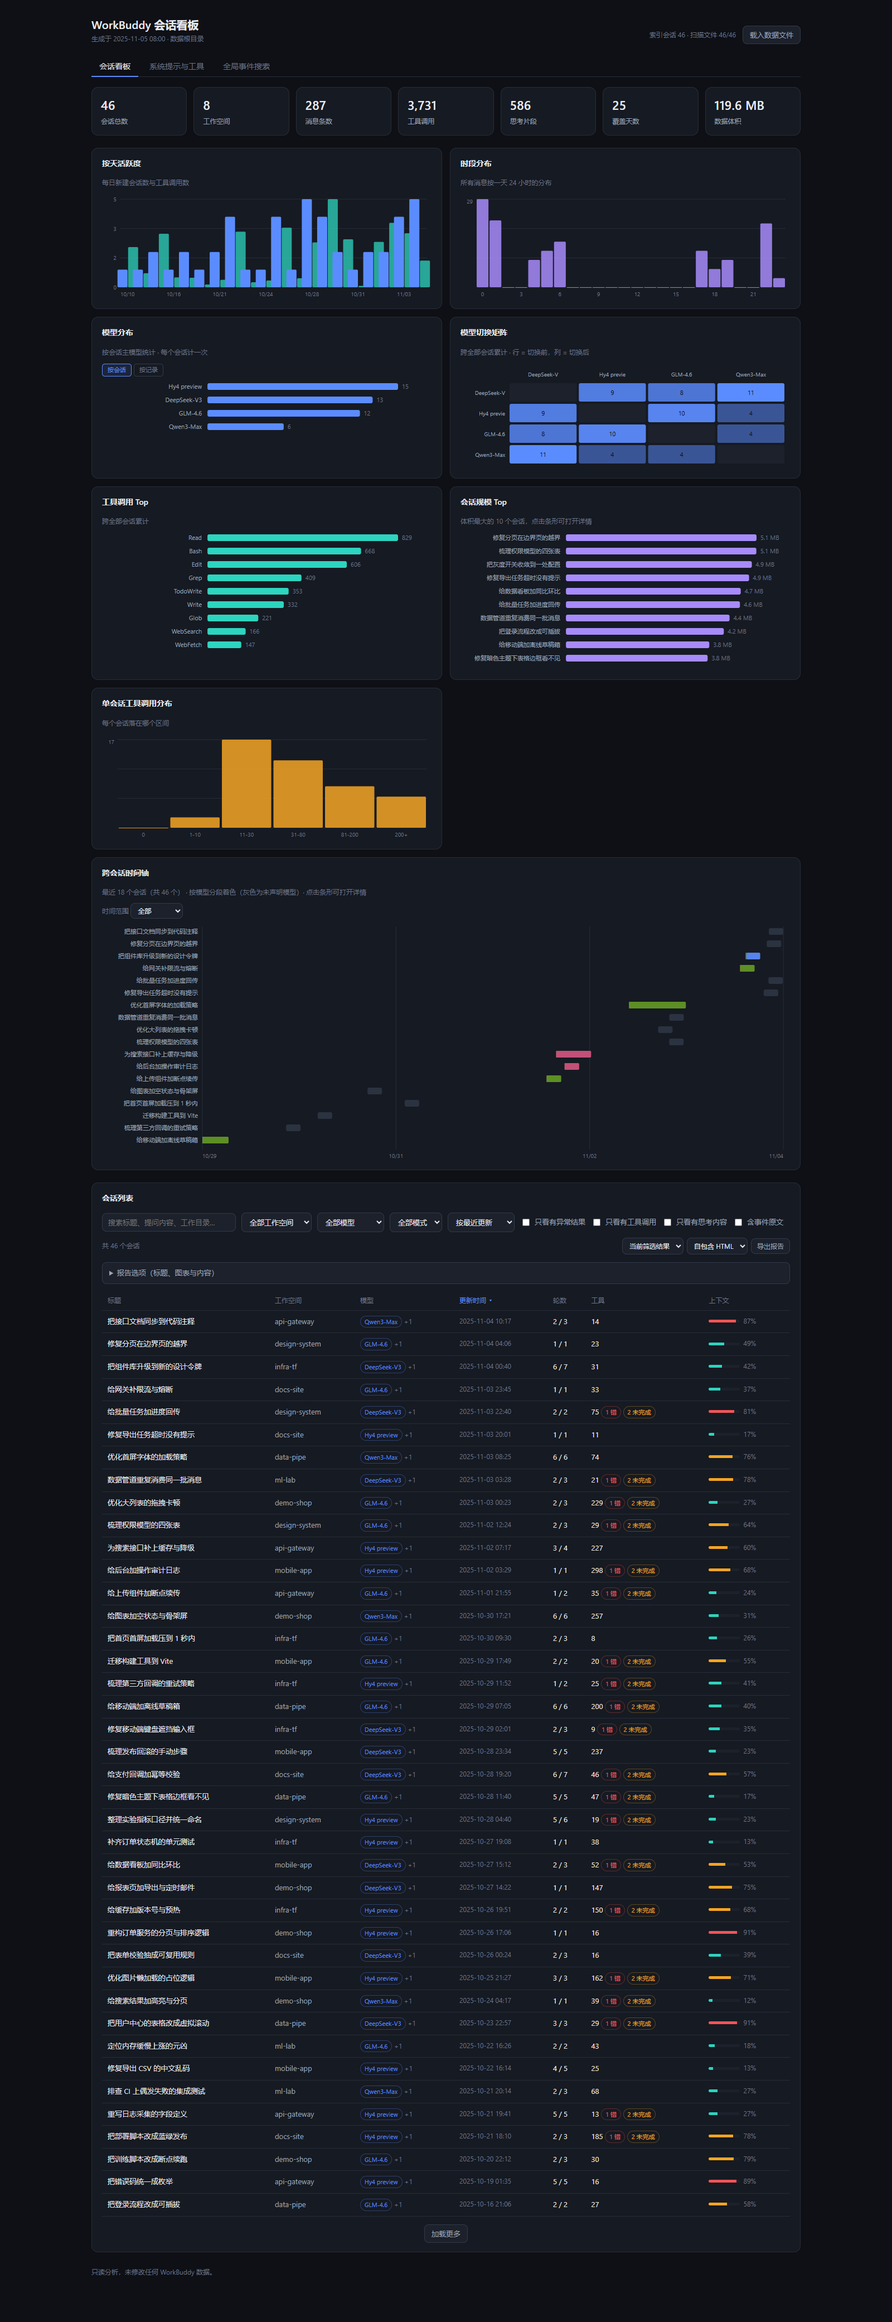
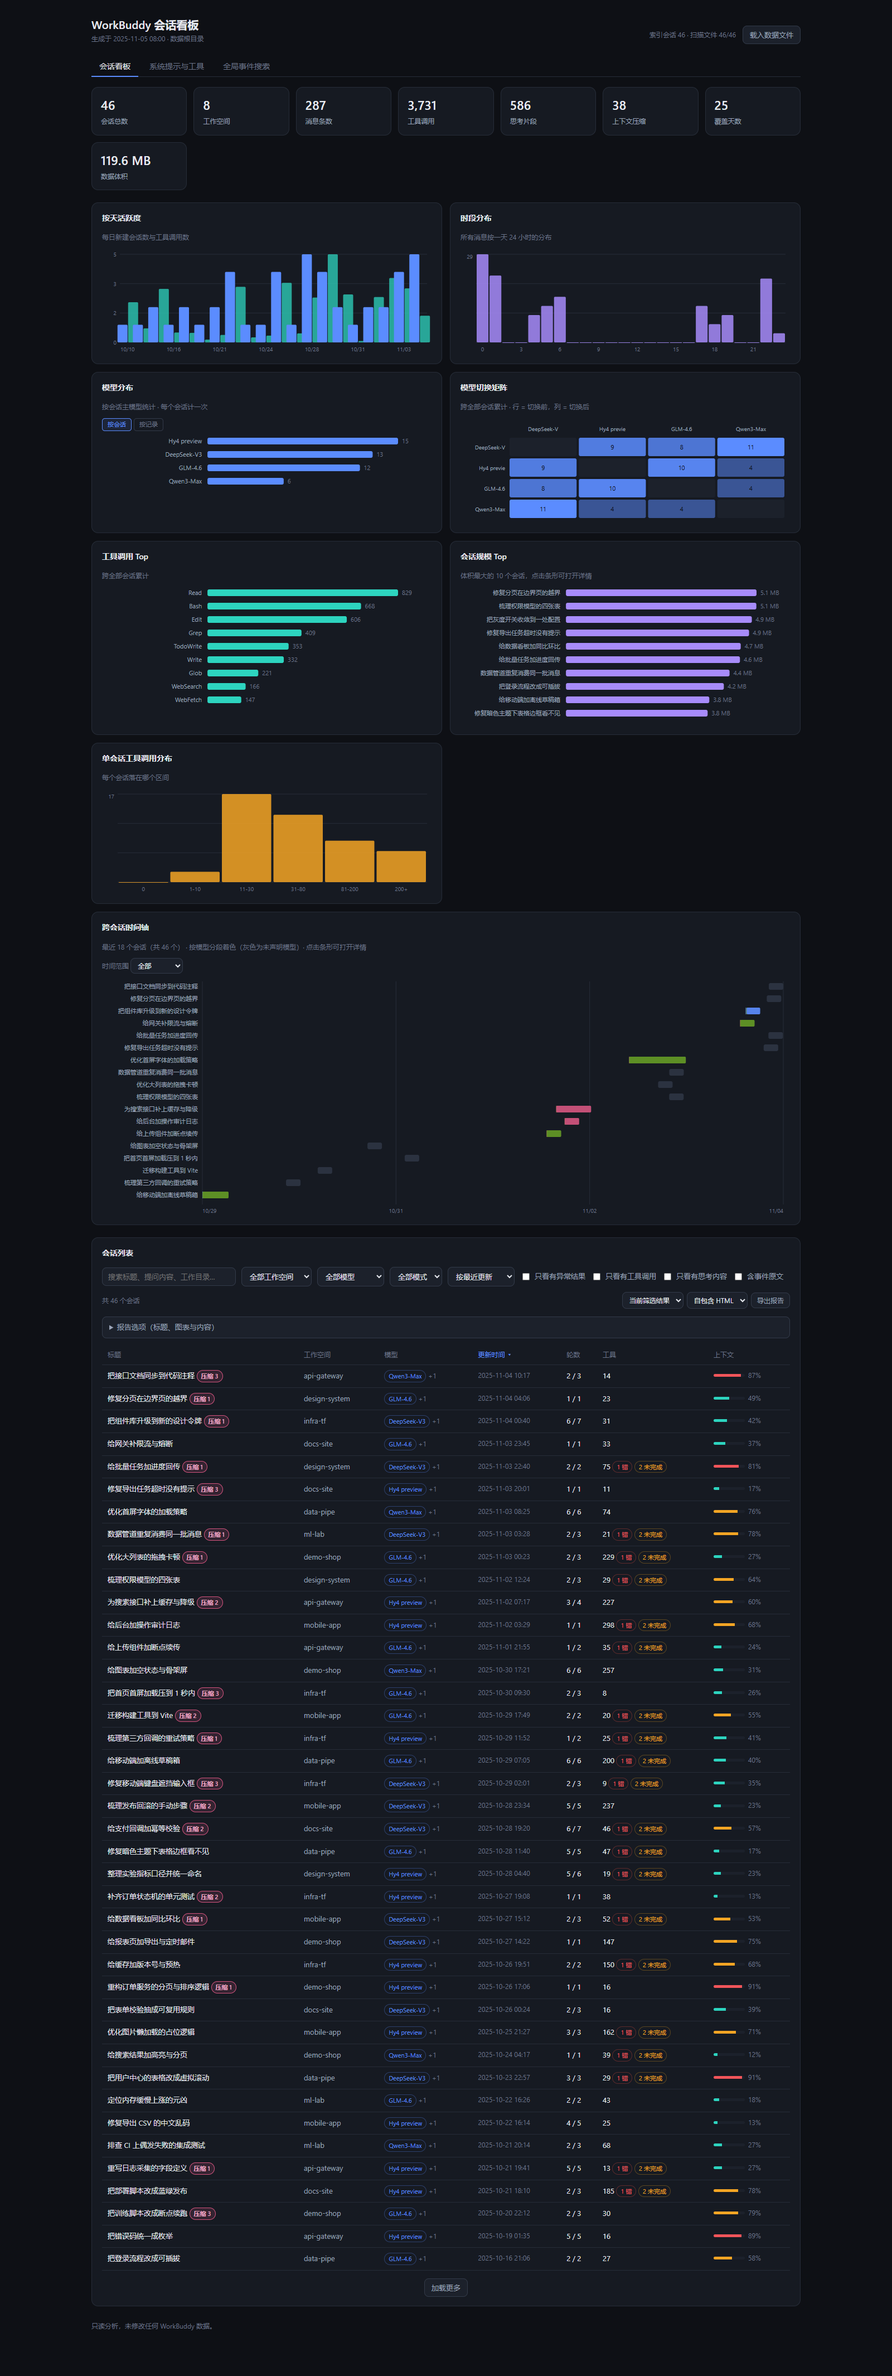
Ship context compaction highlighting
Rebuild index.html, document the compaction markers and the new KPI, update verification counts to 128 checks per engine, and refresh five screenshots plus a new dedicated compaction screenshot.

diff --git a/index.html b/index.html
@@ -139,6 +139,10 @@
   .tab.on{color:var(--txt);border-bottom-color:var(--blue)}
   /* event kind chips */
   .kinds{display:flex;flex-wrap:wrap;gap:6px;margin-bottom:10px}
+  .ev.compact{background:rgba(212,83,126,.10);border-left:3px solid #d4537e;
+    border-bottom:1px solid rgba(212,83,126,.35);padding-left:8px;border-radius:4px}
+  .tag.compact{background:rgba(212,83,126,.16);border-color:#d4537e;color:#f0a8c4;
+    font-weight:600}
   .kinds .tag{cursor:pointer;user-select:none}
   .kinds .tag.off{opacity:.35;text-decoration:line-through}
   /* model lane: one coloured run per contiguous stretch of the same model */
@@ -423,6 +427,8 @@
         <button class="btn" id="gq-run" type="button">搜索</button>
         <label class="chk" title="只看状态为报错、未完成或未识别的工具结果">
           <input type="checkbox" id="gq-abnormal"> 只看异常结果</label>
+        <label class="chk" title="只列出上下文压缩标记所在的记录">
+          <input type="checkbox" id="gq-compact"> 只看上下文压缩</label>
         <span class="tiny" id="gq-status"></span>
       </div>
       <div id="gq-results"></div>
@@ -493,7 +499,7 @@
  */
 
 /** @typedef {Object} ProductConfig configuration snapshot shown on the prompts tab */
-const DATA = {"root":"","deploy":true,"source":{"dbOk":false,"dbError":null,"indexedSessions":0,"workspaces":0,"jsonlFiles":0,"scanned":0},"sessions":[],"product":{"ok":false,"error":"部署版不含本地数据，请在页面顶部选中 ~/.workbuddy 目录","meta":{},"agents":[],"tools":[],"prompts":[],"subagents":[],"outputStyles":[],"models":[]},"generatedAt":1794017698833};
+const DATA = {"root":"","deploy":true,"source":{"dbOk":false,"dbError":null,"indexedSessions":0,"workspaces":0,"jsonlFiles":0,"scanned":0},"sessions":[],"product":{"ok":false,"error":"部署版不含本地数据，请在页面顶部选中 ~/.workbuddy 目录","meta":{},"agents":[],"tools":[],"prompts":[],"subagents":[],"outputStyles":[],"models":[]},"generatedAt":1794122494021};
 let S = DATA.sessions || [];
 const $ = id => document.getElementById(id);
 const fmtTime = ms => { const d = new Date(ms); const p = n => String(n).padStart(2,'0');
@@ -617,9 +623,19 @@ const CUT = {TRUNCATED: 1, NOT_INLINED: 2};
 const C = {blue:'#5b8cff',teal:'#2dd4bf',amber:'#f5a524',red:'#f2555a',violet:'#a78bfa',gray:'#64748b',
   green:'#639922',pink:'#d4537e'};
 const KIND_LABEL = {user:'用户输入',assistant:'助手回复',system:'系统提示',reasoning:'思考',tool:'工具调用',
-  result:'工具返回',meta:'会话元信息',title:'标题生成',snapshot:'文件快照',usage:'用量上报',credit:'积分扣减',fork:'重发分支'};
+  result:'工具返回',meta:'会话元信息',title:'标题生成',snapshot:'文件快照',usage:'用量上报',credit:'积分扣减',fork:'重发分支',
+  compact:'上下文压缩'};
 const KIND_COLOR = {user:C.blue,assistant:C.teal,system:C.pink,reasoning:C.violet,tool:C.amber,
-  result:C.gray,meta:C.gray,title:C.teal,snapshot:C.green,usage:C.amber,credit:C.red,fork:C.gray};
+  result:C.gray,meta:C.gray,title:C.teal,snapshot:C.green,usage:C.amber,credit:C.red,fork:C.gray,
+  compact:C.pink};
+/* WorkBuddy records a context compaction on a message's providerData. These
+   enums come from real session files and are shown instead of raw identifiers. */
+const COMPACT_TYPE_LABEL = {'emergency-auto':'紧急自动', 'pre-message-auto':'消息前自动',
+  'user-command':'手动触发'};
+const COMPACT_TRIGGER_LABEL = {blocking_limit:'上下文触顶',
+  emergency_threshold:'紧急阈值', model_switch:'模型切换'};
+const compactTypeText = v => COMPACT_TYPE_LABEL[v] || v;
+const compactTriggerText = v => COMPACT_TRIGGER_LABEL[v] || v;
 const colorOf = k => KIND_COLOR[k] || C.gray;
 /* Hash the model name, not its array index: colours must stay tied to a model
    even when a filter hides some of them. */
@@ -918,12 +934,14 @@ function renderMeta(){
     for(const t of ts){ if(t < lo) lo = t; if(t > hi) hi = t; }
     return Math.max(1, Math.round((hi-lo)/86400000)); })();
   const totalThinking = S.reduce((a,s)=>a+(s.reasoning||0),0);
+  const totalCompactions = S.reduce((a,s)=>a+(s.compactions||0),0);
   const kpis = [
     ['会话总数', S.length],
     ['工作空间', Object.keys(wsCount).length],
     ['消息条数', totalTurns.toLocaleString()],
     ['工具调用', totalTools.toLocaleString()],
     ['思考片段', totalThinking.toLocaleString()],
+    ['上下文压缩', totalCompactions.toLocaleString()],
     ['覆盖天数', spanDays],
     ['数据体积', fmtBytes(S.reduce((a,s)=>a+(s.bytes||0),0))],
   ];
@@ -1213,11 +1231,21 @@ function setSort(k, toggle){
   if(sel) sel.value = sortKey;
 }
 /** One session row; shared by the full render and the incremental append. */
+function compactSummary(s){
+  const parts = [];
+  for(const [name,count] of (s.compactionTypes||[]))
+    parts.push(compactTypeText(name)+' ×'+count);
+  for(const [name,count] of (s.compactionTriggers||[]))
+    parts.push(compactTriggerText(name)+' ×'+count);
+  return '上下文压缩 '+s.compactions+' 次'+(parts.length ? '：'+parts.join('，') : '');
+}
 function rowHtml(s){
     const pct = (s.ctxUsed!=null&&s.ctxSize)?Math.min(100,Math.round(s.ctxUsed/s.ctxSize*100)):null;
     return '<tr class="row" data-id="'+esc(s.id)+'" tabindex="0" role="button"'
       +' aria-label="查看会话 '+esc(s.title)+'">'
-      +'<td class="tmax" title="'+esc(s.prompt)+'">'+esc(s.title)+'</td>'
+      +'<td class="tmax" title="'+esc(s.prompt)+'">'+esc(s.title)
+        +(s.compactions ? ' <span class="tag compact" title="'
+          +esc(compactSummary(s))+'">压缩 '+s.compactions+'</span>' : '')+'</td>'
       +'<td class="tmax muted">'+esc(s.ws)+'</td>'
       +'<td><span class="tag b">'+esc(s.model||'未知')+'</span>'
         +(modelList(s).length>1
@@ -1328,6 +1356,8 @@ function drawerMetaHtml(s){
     ['思考片段', s.reasoning||0], ['上下文占用', pct==null?'—':(pct+'%（'+s.ctxUsed.toLocaleString()+' / '+s.ctxSize.toLocaleString()+'）')],
     ['记录行数 / 体积', (s.lines||0)+' 行 / '+fmtBytes(s.bytes||0)],
   ];
+  if(s.compactions)
+    meta.push(['上下文压缩', compactSummary(s)]);
   if(s.toolCallsUnanswered)
     meta.push(['调用未收到结果', s.toolCallsUnanswered + ' 次（按 callId 配对）']);
   if(s.unknownStatuses && s.unknownStatuses.length)
@@ -1403,16 +1433,24 @@ function eventHtml(e, i, q, isCurrent){
           ? '<div class="tiny" style="color:'+C.amber+'">全文已展开 · 前 '+fmtSize(HL_CHARS)
             +' 做语法高亮，其余为纯文本以保证响应</div>' : '')
     : '<div class="tiny" style="color:'+C.amber+'">未内联，原始大小 '+fmtSize(e.size)+'</div>';
+  const isCompact = e.k === 'compact';
+  const compactBadge = isCompact
+    ? '<span class="tag compact">上下文压缩'
+      + (e.cxType ? ' · '+esc(compactTypeText(e.cxType)) : '')
+      + (e.cxTrigger ? ' · '+esc(compactTriggerText(e.cxTrigger)) : '')
+      + (e.cxSeq ? ' · 第 '+e.cxSeq+' 次' : '')
+      + '</span> '
+    : '';
   const mc = e.m ? modelColor(e.m) : null;
   const stripe = mc ? ' style="border-left:3px solid '+mc+';padding-left:8px"' : '';
   const multi = !!cur && modelList(cur).length > 1;
   const modelTag = multi && e.m
     ? ' <span class="tiny" style="color:'+mc+'">· '+esc(e.m)+(e.mx?'':'（继承）')+'</span>' : '';
-  return '<div class="ev'+(isCurrent?' current':'')+'" data-k="'+esc(e.k)+'"'
+  return '<div class="ev'+(isCurrent?' current':'')+(isCompact?' compact':'')+'" data-k="'+esc(e.k)+'"'
     +(isCurrent?' data-current="1"':'')+stripe+'><div class="ts">'
     +(e.noTs ? '时间未知' : (e.t ? fmtTime(e.t).slice(5) : ''))+'</div>'
     +'<div class="dot" style="background:'+colorOf(e.k)+'"></div>'
-    +'<div class="body"><div class="nm" style="color:'+colorOf(e.k)+'">'+tag
+    +'<div class="body"><div class="nm" style="color:'+colorOf(e.k)+'">'+compactBadge+tag
     +' <span class="tiny" style="color:var(--txt3)">· '+esc(meta)+'</span>'+modelTag+'</div>'
     + body + '</div></div>';
 }
@@ -1837,7 +1875,7 @@ function readDataFile(f){
 const KIND_BY_TYPE_JS = {reasoning:'reasoning', function_call:'tool', function_call_result:'result',
   'session-meta':'meta', 'ai-title':'title', 'file-history-snapshot':'snapshot',
   'model-usage':'usage', 'credit-usage':'credit', 'resend-fork-notice':'fork'};
-const CORE_KINDS_JS = {user:1, assistant:1, system:1, reasoning:1, tool:1, result:1};
+const CORE_KINDS_JS = {user:1, assistant:1, system:1, reasoning:1, tool:1, result:1, compact:1};
 const JS_MAX_EVENTS = 150, JS_MAX_AUX = 60, JS_RAW_ONE = 4000, JS_RAW_PREVIEW = 240;
 
 function jsToMs(v){
@@ -1932,6 +1970,7 @@ function jsStat(){
     lines:0, badLines:0, title:'', titleTs:null, cwd:'',
     lineIdx:0, curLine:0, lastSeenTs:null, dropped:0, pending:[],
     curModel:null, modelExact:false, modelSegs:[], modelSwitches:0, modelSegsTruncated:false,
+    compactions:0, compactTypes:{}, compactTriggers:{},
     callIds:new Set(), answeredCallIds:new Set()};
 }
 /* resuming a parse: skip what is already on screen, then keep up to max more */
@@ -1961,6 +2000,12 @@ const RE_J = {
   modelA: /(^|[^\\])"requestModelName"\s*:\s*"([^"]*)"/,
   modelB: /(^|[^\\])"model"\s*:\s*"([^"]*)"/,
   cwd:    /(^|[^\\])"cwd"\s*:\s*"([^"]*)"/,
+  // Compaction markers live in providerData, which can sit well past the
+  // 1.5 KB head, so these are matched against the whole message line.
+  compactFlag: /"isCompactInternal"\s*:\s*true|"isCompacted"\s*:\s*true|"compactType"\s*:\s*"/,
+  compactType: /"compactType"\s*:\s*"([^"]+)"/,
+  compactTrigger: /"compactionTrigger"\s*:\s*"([^"]+)"/,
+  compactSeq: /"compactionSeq"\s*:\s*(\d+)/,
 };
 const HEAD_CHARS = 1500;
 
@@ -1980,11 +2025,14 @@ function jsMakeEvent(st, p, line, budget){
   if(p.m) ev.m = p.m;          // model in effect for this record
   if(p.mx) ev.mx = 1;          // 1 = stated by the record, 0 = inherited
   if(p.noTs) ev.noTs = true;
+  if(p.cxType) ev.cxType = p.cxType;
+  if(p.cxTrigger) ev.cxTrigger = p.cxTrigger;
+  if(p.cxSeq) ev.cxSeq = p.cxSeq;
   if(take > JS_RAW_PREVIEW) st.rawChars += take - JS_RAW_PREVIEW;
   if(take < line.length) ev.cut = take > JS_RAW_PREVIEW ? CUT.TRUNCATED : CUT.NOT_INLINED;
   return ev;
 }
-function jsEvent(st, kind, ts, line, budget){
+function jsEvent(st, kind, ts, line, budget, extra){
   st.typeCounter[kind] = (st.typeCounter[kind] || 0) + 1;
   if(ts != null) st.lastSeenTs = ts;
   // seq is the line's index in the file: stable across re-parses, so it works
@@ -1993,12 +2041,15 @@ function jsEvent(st, kind, ts, line, budget){
   const p = {i: st.curLine, k: kind,
     t: ts != null ? ts : (st.lastSeenTs != null ? st.lastSeenTs : 0),
     noTs: ts == null, m: st.curModel || null, mx: st.modelExact};
+  if(extra) Object.assign(p, extra);
   const core = !!CORE_KINDS_JS[kind];
   const seen = core ? st.nCore : st.nAux;
   if(core) st.nCore++; else st.nAux++;
   const skip = core ? st.skipCore : st.skipAux;
   if(seen < skip) return;                 // already shown in an earlier batch
-  if(seen - skip >= (core ? st.maxCore : st.maxAux)){
+  // a context compaction is a rare, important marker: never hide it behind
+  // the 210-record cap, even when it sits late in a long session
+  if(kind !== 'compact' && seen - skip >= (core ? st.maxCore : st.maxAux)){
     st.dropped++; st.pending.push(p); return;
   }
   st.events.push(jsMakeEvent(st, p, line, budget));
@@ -2100,6 +2151,19 @@ function jsLine(st, raw, budget){
   if(ts){
     if(st.firstTs == null || ts < st.firstTs) st.firstTs = ts;
     if(st.lastTs == null || ts > st.lastTs) st.lastTs = ts;
+  }
+  if(rtype === 'message' && RE_J.compactFlag.test(line)){
+    const typeMatch = RE_J.compactType.exec(line);
+    const triggerMatch = RE_J.compactTrigger.exec(line);
+    const seqMatch = RE_J.compactSeq.exec(line);
+    const cxType = typeMatch ? typeMatch[1] : '';
+    const cxTrigger = triggerMatch ? triggerMatch[1] : '';
+    const cxSeq = seqMatch ? +seqMatch[1] : 0;
+    st.compactions++;
+    if(cxType) st.compactTypes[cxType] = (st.compactTypes[cxType] || 0) + 1;
+    if(cxTrigger) st.compactTriggers[cxTrigger] = (st.compactTriggers[cxTrigger] || 0) + 1;
+    jsEvent(st, 'compact', ts, line, budget, {cxType, cxTrigger, cxSeq});
+    return;
   }
   const handler = RECORD_HANDLERS[rtype];
   if(handler){ handler(st, head, ts, line, budget); return; }
@@ -2254,6 +2318,9 @@ function jsFinish(st, id, wsFallback, size){
     rawChars: st.rawChars,
     typeCounts: kv(st.typeCounter).sort((a,b)=>b[1]-a[1]),
     systemMsgs: st.systemMsgs, snapshots: st.snapshots,
+    compactions: st.compactions,
+    compactionTypes: kv(st.compactTypes).sort((a,b)=>b[1]-a[1]),
+    compactionTriggers: kv(st.compactTriggers).sort((a,b)=>b[1]-a[1]),
     file: (wsFallback ? wsFallback + '/' : '') + id + '.jsonl',
   };
 }
@@ -3321,6 +3388,7 @@ function reportContext(scope){
       errors: sum('toolErrors'),
       incomplete: sum('toolIncomplete') + sum('toolUnknown'),
       unanswered: sum('toolCallsUnanswered'),
+      compactions: sum('compactions'),
       bytes: sum('bytes')
     }
   };
@@ -3364,7 +3432,8 @@ function buildMarkdownReport(ctx){
   out.push('- 筛选条件：' + (ctx.filters.length ? ctx.filters.join('；') : '无条件'));
   out.push('- 已选图表：' + ctx.charts.length + ' 张（Markdown 不嵌图片，需要图表请用自包含 HTML 格式）');
   out.push('- 会话数：' + k.sessions + ' · 消息：' + k.turns + ' · 工具调用：' + k.tools
-    + ' · 报错：' + k.errors + ' · 未完成：' + k.incomplete + ' · 总体积：' + fmtBytes(k.bytes));
+    + ' · 报错：' + k.errors + ' · 未完成：' + k.incomplete
+    + ' · 上下文压缩：' + k.compactions + ' 次 · 总体积：' + fmtBytes(k.bytes));
   out.push('');
   if(options.includeTable){
     out.push('## 会话列表');
@@ -3440,7 +3509,7 @@ function buildHtmlReport(ctx){
   for(const [label,value] of [
     ['会话数',k.sessions], ['消息',k.turns], ['工具调用',k.tools],
     ['报错',k.errors], ['未完成',k.incomplete], ['调用未收到结果',k.unanswered],
-    ['总体积',fmtBytes(k.bytes)]
+    ['上下文压缩',k.compactions], ['总体积',fmtBytes(k.bytes)]
   ]) h += '<div class="kpi"><b>' + esc(value) + '</b><span>' + esc(label) + '</span></div>';
   h += '</div>';
   if(ctx.charts.length){
@@ -3525,6 +3594,9 @@ function globalSnippet(raw, query){
   return (from > 0 ? '…' : '') + part
     + (from + GLOBAL_SNIPPET_CHARS < text.length ? '…' : '');
 }
+function eventIsCompaction(e){
+  return e && (e.k === 'compact' || RE_J.compactFlag.test(String(e.raw || '')));
+}
 function eventIsAbnormal(e){
   const match = RE_J.status.exec(String((e && e.raw) || ''));
   return !!match && toolStatusKind(match[2]) !== 'ok';
@@ -3534,8 +3606,9 @@ function globalDataVersion(){
   for(const s of S) if(s && s.events) version += s.events.length;
   return version + '|' + S.length + '|' + (DATA.generatedAt || 0);
 }
-function searchAllEvents(query, abnormalOnly){
-  const key = query + '|' + (abnormalOnly ? '1' : '0') + '|' + globalDataVersion();
+function searchAllEvents(query, abnormalOnly, compactOnly){
+  const key = query + '|' + (abnormalOnly ? '1' : '0') + '|' + (compactOnly ? '1' : '0')
+    + '|' + globalDataVersion();
   const cached = GLOBAL_SEARCH_CACHE.get(key);
   if(cached) return cached;
   const results = [];
@@ -3549,6 +3622,7 @@ function searchAllEvents(query, abnormalOnly){
       scanned += raw.length;
       if(scanned > GLOBAL_SCAN_LIMIT){ capped = true; break; }
       if(abnormalOnly && !eventIsAbnormal(e)) continue;
+      if(compactOnly && !eventIsCompaction(e)) continue;
       if(!raw.toLowerCase().includes(query)) continue;
       matched = true;
       if(results.length < GLOBAL_MAX_RESULTS)
@@ -3580,7 +3654,8 @@ function renderGlobalSearch(){
     return;
   }
   const abnormalOnly = !!($('gq-abnormal') && $('gq-abnormal').checked);
-  const found = searchAllEvents(query, abnormalOnly);
+  const compactOnly = !!($('gq-compact') && $('gq-compact').checked);
+  const found = searchAllEvents(query, abnormalOnly, compactOnly);
   if(kpis) kpis.innerHTML = [
     ['命中记录', String(found.results.length) + (found.truncated ? '+' : '')],
     ['涉及会话', found.sessions],
@@ -3593,7 +3668,8 @@ function renderGlobalSearch(){
     : (found.truncated ? '仅展示前 ' + GLOBAL_MAX_RESULTS + ' 条，请缩小查询' : '');
   if(!found.results.length){
     box.innerHTML = emptyHtml('没有匹配的事件'
-      + (abnormalOnly ? '（已限定异常结果）' : ''));
+      + (abnormalOnly ? '（已限定异常结果）' : '')
+      + (compactOnly ? '（已限定上下文压缩）' : ''));
     return;
   }
   box.innerHTML = found.results.map((hit, i) => {
@@ -3638,6 +3714,7 @@ refreshPresetSelect('');
 $('gq').oninput = scheduleGlobalSearch;
 $('gq-run').onclick = renderGlobalSearch;
 $('gq-abnormal').onchange = renderGlobalSearch;
+$('gq-compact').onchange = renderGlobalSearch;
 $('gq-results').onclick = e => activateGlobalHit(e.target);
 $('gq-results').onkeydown = e => {
   if(!isActivateKey(e)) return;

diff --git a/README.md b/README.md
@@ -61,6 +61,14 @@ File API 完成，刷新页面即回到无数据状态。
 达到上限时会明确提示而不是静默截断。搜索范围只覆盖当前已载入的事件（首轮 210 条上限），
 磁盘上未解析的部分需先在对应会话里点「从文件继续解析」。
 
+**上下文压缩会被单独标出来**：会话发生上下文压缩时，`message` 记录的 `providerData`
+里会带 `isCompactInternal` / `compactType` / `compactionTrigger` 等字段。看板把这类记录识别成
+独立的「上下文压缩」事件类型——事件流里用带底色的整行和徽章标出压缩方式、触发原因与序号，
+并在类型标签里可单独筛选；会话列表给这些会话加「压缩 N」标记（悬停看类型与触发分布），
+详情面板补一行汇总，顶部 KPI 也统计跨会话的压缩总次数。「全局事件搜索」里还能勾
+「只看上下文压缩」。压缩记录属于稀有但关键的位置，因此**不受首轮 210 条事件上限影响**，
+即使出现在很长的会话末尾也一定保留；字段即便落在记录 1.5 KB 之后也能识别。
+
 **一次对话里换了模型也能看出来**：详情面板会显示「使用模型」构成，事件流上方有一条
 **模型泳道**，按全文件记录顺序把同一模型的连续区间画成一个色段，标出切换次数；
 下方图例列出各模型处理的记录数，点图例或色段可只看该模型的事件，事件行左侧也有同色细条。
@@ -113,7 +121,7 @@ CSV 带 UTF-8 BOM，Excel 可直接打开；Markdown 适合贴进笔记或仓库
 > 「会话状态」「上下文占用」这类字段只存在于 `workbuddy.db`，浏览器模式不读数据库，因此显示为「—」；
 > 详情面板会改用请求里带的 `prompt_tokens` 峰值，补一行「输入 token 峰值」。
 
-> 下面五张截图用的是**完全虚构的演示数据**（会话标题、工作目录、消息、工具调用全部是编的，
+> 下面六张截图用的是**完全虚构的演示数据**（会话标题、工作目录、消息、工具调用全部是编的，
 > 路径形如 `C:/Users/demo/Projects/...`），只用来展示版面，不含任何真实会话内容。
 > 截图由固定时钟生成的演示页自动截取，与当前页面版本一致。
 
@@ -149,6 +157,12 @@ CSV 带 UTF-8 BOM，Excel 可直接打开；Markdown 适合贴进笔记或仓库
 输入关键词后列出所有会话里的命中记录，附带会话标题、时间、类型与高亮片段；点击即可跳转。
 
 ![跨会话事件搜索](images/screenshot-search.png)
+
+### 上下文压缩标记
+
+事件流里的压缩记录用底色、左边框和徽章单独标出，徽章写明压缩方式、触发原因与序号。
+
+![上下文压缩标记](images/screenshot-compaction.png)
 
 ## 已知取舍
 
@@ -194,7 +208,7 @@ CSV 带 UTF-8 BOM，Excel 可直接打开；Markdown 适合贴进笔记或仓库
 ## 开发验证
 
 开发工作副本里保留五套验证工具，模板改动后应全部跑通。当前真实浏览器用例为
-**Chromium / Firefox / WebKit 各 121 项，共 363 项**：
+**Chromium / Firefox / WebKit 各 128 项，共 384 项**：
 
 - `node smoke-test.js`：模板语法、静态隐私扫描、纯逻辑与渲染字符串断言（Node VM + DOM 桩）
 - `node browser-test.js`：浏览器侧解析、缓存续解析、目录选择、拖放保护等流程（Node VM + DOM 桩）
